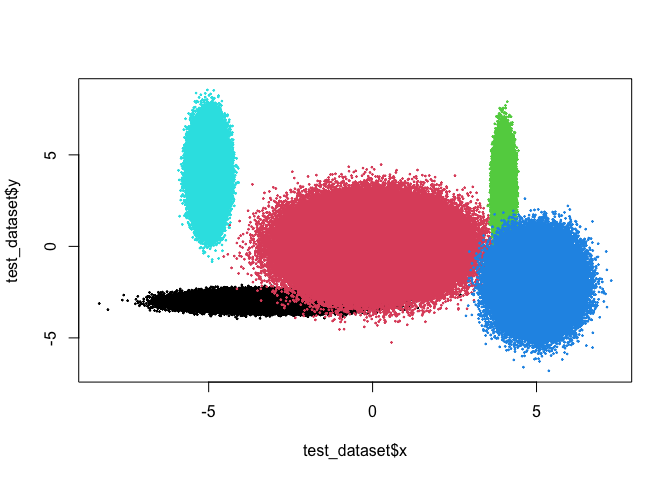
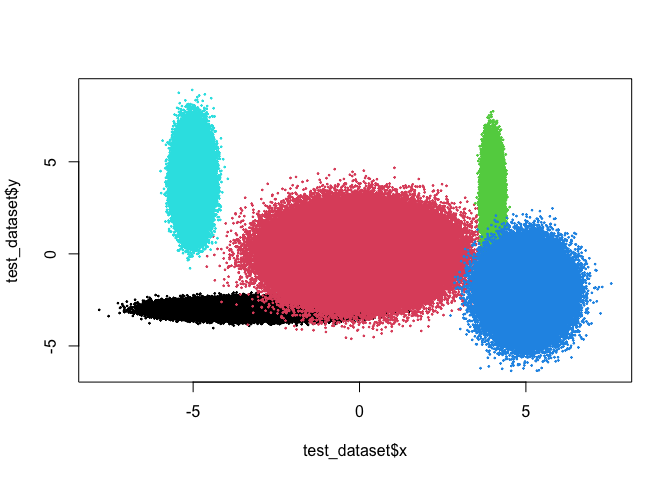
Knited README

diff --git a/README.md b/README.md
@@ -110,24 +110,16 @@ clustering_result <-
     centers = 5,
     iter.max = 5000,
   )
-#> Committee Member: 1(1)
-#>  2(1)
-#>  3(1)
-#>  4(1)
-#>  5(1)
-#>  6(1)
-#>  7(1)
-#>  8(1)
-#>  9(1)
-#>  10(1)
-#> 
+#> Committee Member: 1(1) 2(1) 3(1) 4(1)
+#> Warning: Quick-TRANSfer stage steps exceeded maximum (= 1500000)
+#>  5(1) 6(1) 7(1) 8(1) 9(1) 10(1)
 #> Computing Hierarchical Clustering
 
 end_time <- Sys.time()
 
 # Check time lapsed
 end_time - start_time
-#> Time difference of 2.6321 secs
+#> Time difference of 3.426717 secs
 
 # Save results
 test_dataset["sbclust"] <- clustering_result$cluster
@@ -159,10 +151,10 @@ centres_mean
 #> [4,]    5   -2
 #> [5,]   -5    4
 clustering_result$centers
-#>              [,1]        [,2]
-#> [1,] -4.996561644  3.98322325
-#> [2,] -2.979983834 -2.98478670
-#> [3,]  3.998812323  2.97560647
-#> [4,]  4.994837529 -2.04239691
-#> [5,] -0.009966978  0.03353502
+#>             [,1]        [,2]
+#> [1,] -2.90489517 -2.96415826
+#> [2,]  0.01064644  0.03726446
+#> [3,] -4.99965833  4.04189966
+#> [4,]  3.99774840  3.02661789
+#> [5,]  4.99963861 -2.06799576
 ```
